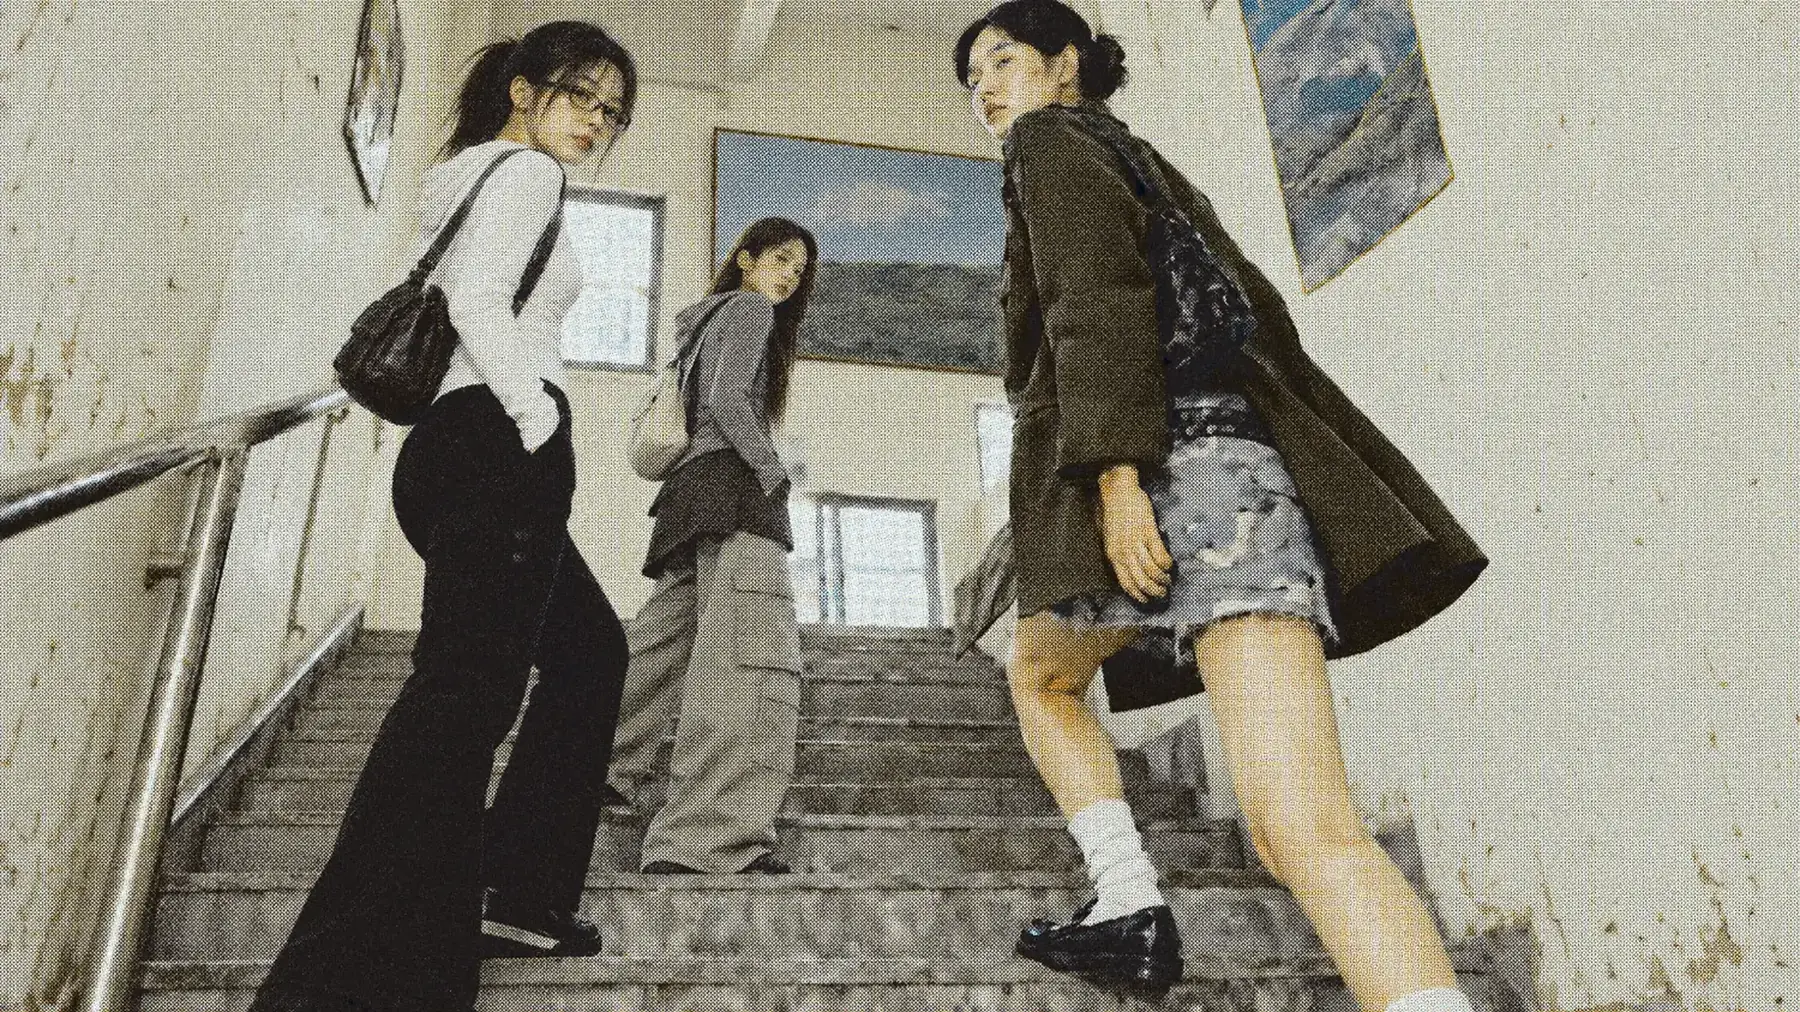
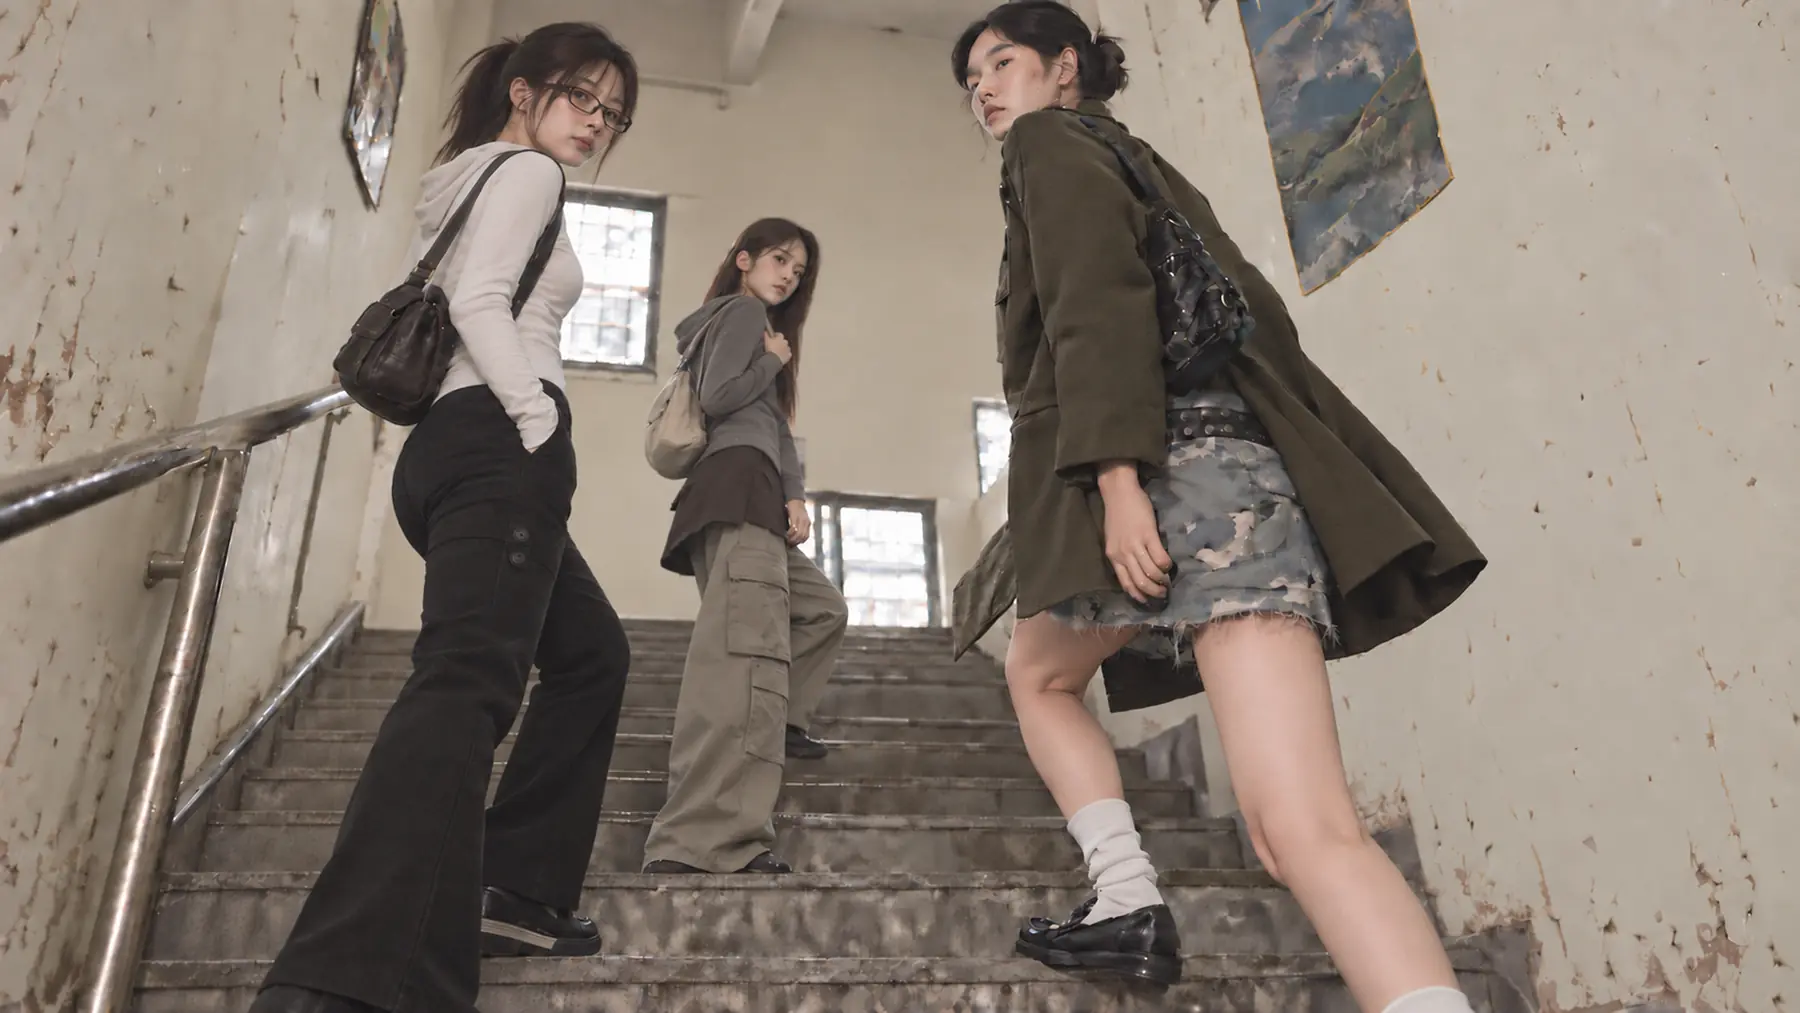
히어로 배경 사진 교체(2배 업스케일)

diff --git a/index.html b/index.html
@@ -18,7 +18,7 @@
   <link rel="apple-touch-icon" href="src/assets/apple-touch-icon.png?v=2">
 
   <link rel="stylesheet" href="https://cdnjs.cloudflare.com/ajax/libs/leaflet/1.9.4/leaflet.min.css" />
-  <link rel="preload" as="image" href="src/assets/hero.webp?v=4" imagesrcset="src/assets/hero-1800.webp?v=4 1800w, src/assets/hero.webp?v=4 3000w" imagesizes="100vw" fetchpriority="high">
+  <link rel="preload" as="image" href="src/assets/hero.webp?v=5" imagesrcset="src/assets/hero-1800.webp?v=5 1800w, src/assets/hero.webp?v=5 3000w" imagesizes="100vw" fetchpriority="high">
   <link rel="stylesheet" href="src/styles/site.css?v=94">
   <title data-i18n="site-title">더하퍼 — K-패션 에디터 큐레이션, 서울</title>
 </head>
@@ -86,7 +86,7 @@
   <main id="main">
     <!-- Hero Section -->
     <section id="hero" class="hero">
-      <img class="hero__image" src="src/assets/hero.webp?v=4" srcset="src/assets/hero-1800.webp?v=4 1800w, src/assets/hero.webp?v=4 3000w" sizes="100vw" alt="" width="3000" height="1686" fetchpriority="high" decoding="async">
+      <img class="hero__image" src="src/assets/hero.webp?v=5" srcset="src/assets/hero-1800.webp?v=5 1800w, src/assets/hero.webp?v=5 3000w" sizes="100vw" alt="" width="3000" height="1688" fetchpriority="high" decoding="async">
       <div class="container">
         <div class="hero__content">
           <h1 class="hero__headline" style="color: white;" data-i18n="hero-headline">Seoul, Curated by Editors</h1>
